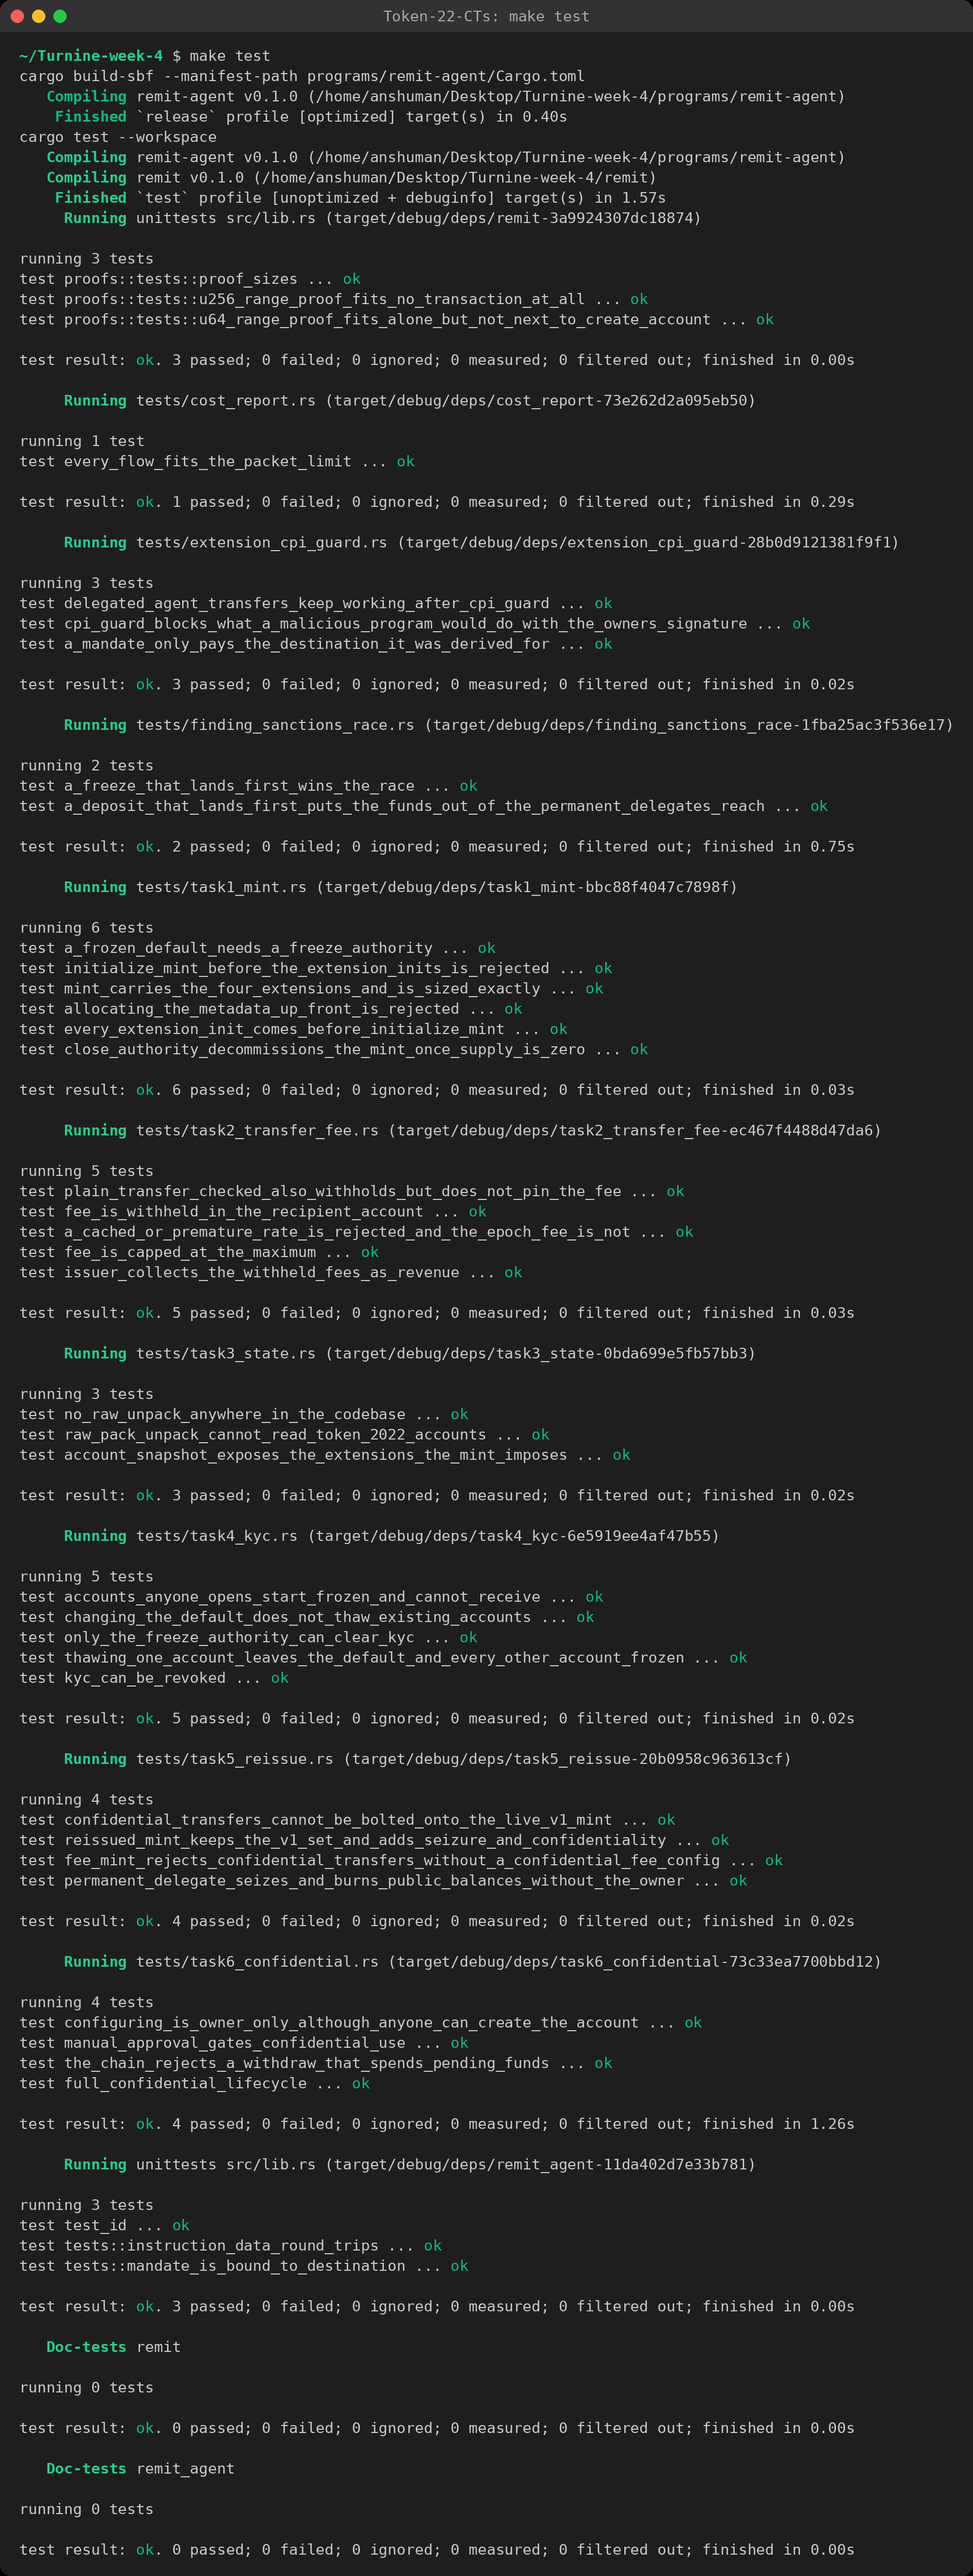
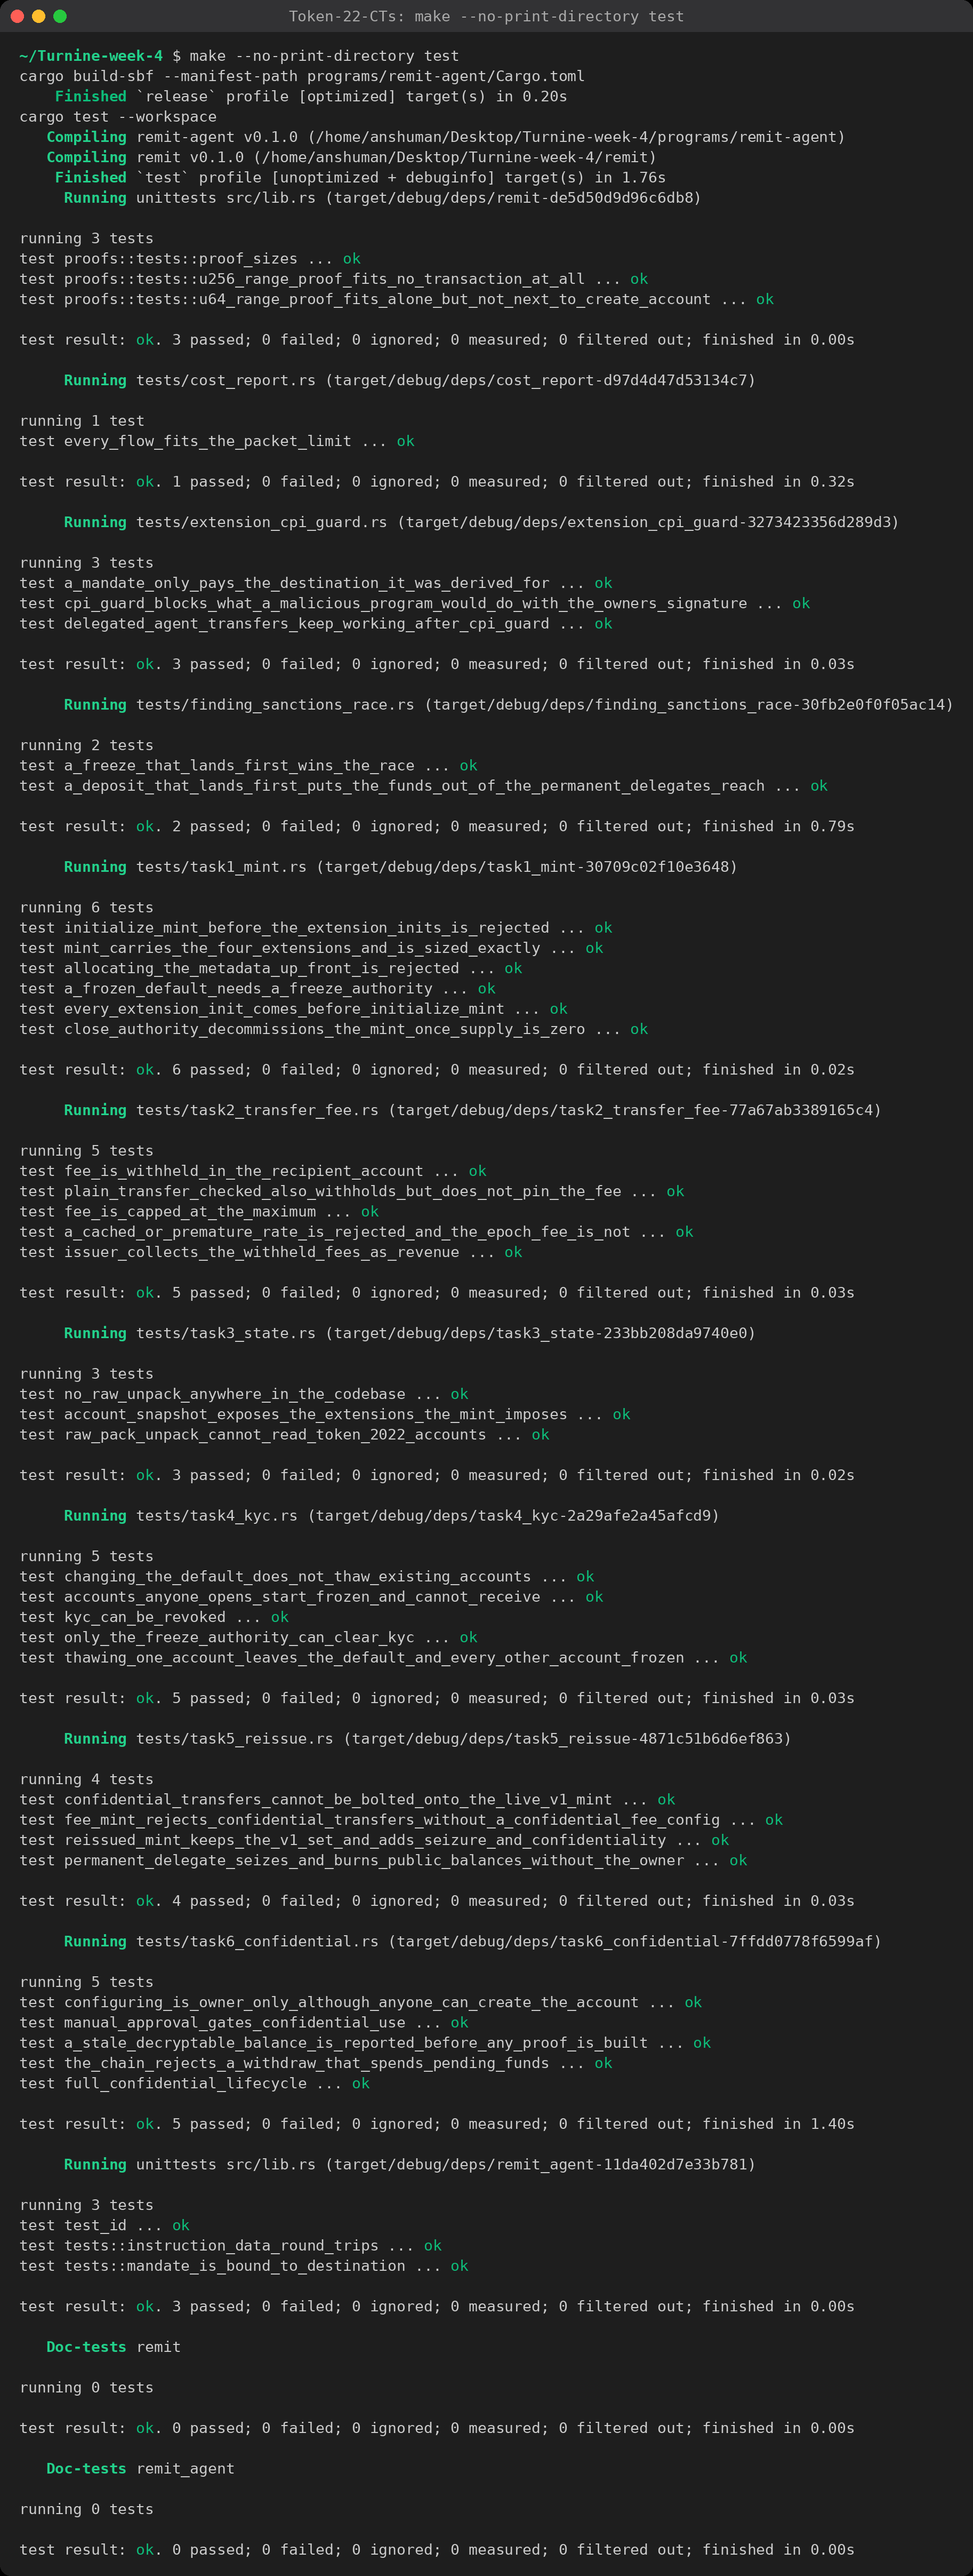
docs: update readme for the new proof flow

diff --git a/README.md b/README.md
@@ -13,6 +13,8 @@ The tests run the real Token-2022 v11 program, the ATA program and the ZK ElGama
 
 ![all tests passing](docs/tests-passing.png)
 
+The image is rendered from a captured `make test` run (`make screenshot` regenerates it).
+
 ## Running the tests
 
 ```sh
@@ -172,20 +174,23 @@ With the manual policy, a configured account cannot deposit (`ConfidentialTransf
 
 Pending funds are not spendable. The recipient's `withdraw` before applying is refused on the client (`InsufficientConfidentialBalance`), and the chain enforces the same rule by itself. zk-sdk v7's proof builders check their inputs and fail with `InconsistentInput` on a false balance claim, so the attack in `the_chain_rejects_a_withdraw_that_spends_pending_funds` builds valid proofs over the pending ciphertext, which really does hold the funds. Both proofs verify, and Token-2022 still rejects the withdraw with `ConfidentialTransferBalanceMismatch`, because it recomputes `available - amount` and compares it with the proven ciphertext. The failed attempt still closes its proof accounts, so no rent is stranded.
 
+The owner's spendable balance is read from `decryptable_available_balance`, which the owner rewrites at every `ApplyPendingBalance`. If a credit lands between reading the pending balance and applying it, that value falls behind the encrypted balance. Token-2022 records the mismatch in the account's credit counters, and `available_balance` checks them and reports the stale state before any proof is built (`a_stale_decryptable_balance_is_reported_before_any_proof_is_built`).
+
 ### Getting the proofs on-chain
 
-A confidential transfer on a fee mint needs five proofs, and a withdraw needs two. Each one is verified by the ZK ElGamal Proof program into a context-state account that the Token-2022 instruction then references. How each proof travels depends on its size (the sizes are asserted in `proofs::tests`):
+A confidential transfer on a fee mint needs five proofs, and a withdraw needs two. Token-2022 takes a proof either inline (the verify instruction sits in the same transaction, and the program reads it through the instructions sysvar) or from a context-state account that the ZK ElGamal Proof program filled earlier. How each proof travels depends on its size (the sizes are asserted in `proofs::tests`):
 
 | proof | bytes | delivery |
 |---|---:|---|
-| pubkey validity (configure) | 96 | inline, same transaction as `ConfigureAccount` |
-| ciphertext-commitment equality | 320 | create context + verify in one transaction |
-| batched grouped-ciphertext validity, 2 / 3 handles | 416 / 544 | create context + verify in one transaction |
-| percentage-with-cap (fee) | 360 | create context + verify in one transaction |
-| batched range proof U64 (withdraw) | 936 | fits alone but not next to `CreateAccount`: two transactions |
-| batched range proof U256 (transfer with fee) | 1064 | written to an spl-record account, then verified from the account |
+| pubkey validity (configure) | 96 | inline in the `ConfigureAccount` transaction |
+| ciphertext-commitment equality, withdraw | 320 | inline in the `Withdraw` transaction |
+| ciphertext-commitment equality, transfer | 320 | own transaction: create context + verify |
+| batched grouped-ciphertext validity, 2 / 3 handles | 416 / 544 | own transaction: create context + verify |
+| percentage-with-cap (fee) | 360 | own transaction: create context + verify |
+| batched range proof U64 (withdraw) | 936 | record account, verified inside the `Withdraw` transaction |
+| batched range proof U256 (transfer with fee) | 1064 | record account, verified inside the `TransferWithFee` transaction |
 
-The U256 range proof cannot fit in any transaction. The smallest possible carrier, with only the fee payer, no context account and no compute-budget instruction, is 1235 bytes. `proofs::ProofAccounts::verify_via_record` writes the proof into a record account in the fewest chunks that fit (it binary-searches the chunk size, which is why the largest transaction in the suite is exactly 1232 bytes), then verifies it with `encode_verify_proof_from_account`. The record program is not bundled with LiteSVM, so the mainnet binary is in `fixtures/`.
+A context account is always created and verified in the same transaction. The two range proofs cannot sit next to a `CreateAccount`: the U64 proof only fits in a transaction of its own, and the U256 proof fits in none (the smallest possible carrier, with only the fee payer, no context account and no compute-budget instruction, is 1235 bytes). Creating the context in one transaction and verifying in the next would leave an empty account owned by the proof program on-chain in between. Anyone could verify their own proof into it, become its authority, and later close it and keep the rent. So `ProofAccounts::stage_from_record` writes each range proof into an spl-record account in the fewest chunks that fit (it binary-searches the chunk size, which is why the largest transaction in the suite is exactly 1232 bytes). `ProofAccounts::consume` then sends one transaction that writes the last chunk if there is room, creates the context, verifies the proof from the record, runs the Token-2022 instruction and closes every proof account. If anything fails, the accounts created so far are closed in a separate transaction. The record program is not bundled with LiteSVM, so the mainnet binary is in `fixtures/`.
 
 The ZK ElGamal Proof program is a builtin. Without a `SetComputeUnitLimit`, a builtin instruction gets 3,000 CU, which is less than every verification costs (closing a context costs 3,300 and the U256 range proof 368,000). Every proof transaction therefore sets an explicit limit sized from the program's published costs.
 
@@ -200,8 +205,8 @@ What each flow costs, from `make report`:
 | ApproveAccount | 1 | 334 | 1785 |
 | Deposit | 1 | 343 | 10866 |
 | ApplyPendingBalance | 1 | 345 | 8063 |
-| confidential TransferWithFee (5 proofs) | 9 | 1232 | 476401 |
-| Withdraw (2 proofs) | 5 | 1181 | 131311 |
+| confidential TransferWithFee (5 proofs) | 7 | 1232 | 476249 |
+| Withdraw (2 proofs) | 2 | 1232 | 130673 |
 
 ## Finding: a sanctioned user deposits into the confidential system before the permanent delegate acts
 
@@ -251,7 +256,7 @@ To deploy the program to devnet, generate your own program keypair and replace t
 | 3. `StateWithExtensions` only | `task3_state.rs` (3) |
 | 4. per-account thaw after KYC, separate from the mint default | `task4_kyc.rs` (5) |
 | 5. re-issue with `PermanentDelegate` + confidential, manual approval | `task5_reissue.rs` (4) |
-| 6. configure, approve, deposit, apply, transfer, withdraw | `task6_confidential.rs` (4) |
+| 6. configure, approve, deposit, apply, transfer, withdraw | `task6_confidential.rs` (5) |
 | written finding | `finding_sanctions_race.rs` (2) |
 | extension challenge | `extension_cpi_guard.rs` (3) |
 | packet limit and costs | `cost_report.rs` (1), `proofs::tests` (3) |
